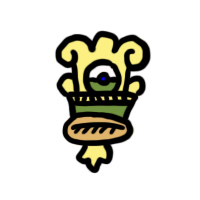
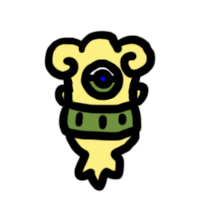
Adjust frequencies and trader sprites.

Changed region(s): [[0.21, 0.15, 0.78, 0.96]]

diff --git a/trader.js b/trader.js
@@ -1,7 +1,7 @@
 let Trader = function (x, y) {
     this.instantiate(x, y)
     this.name = nameMumbler.mumble()
-    this.icon = game.icons.trader
+    this.icon = wheels.pick([true, true, true, false]) ? game.icons.trader : game.icons.warlock
     this.head = {}
     this.inventory = []
     this.inventory.length = 8
@@ -10,13 +10,14 @@ let Trader = function (x, y) {
     this.inventory[1] = new (wheels.pick([Fruit, Fruit, Fruit, Cactusseed, Skull, Gem])) ()
     this.info = `A trader named ${this.name}.`
     this.interval = setInterval(this.act.bind(this), 500)
-    this.money = Math.floor(Math.random() * 150) + 150
+    this.money = Math.floor(Math.random() * 350) + 150
     this.verbs = ['trade']
     this.values = {
         'fruit': .35 + Math.random() * .35 + Math.random() * .35 + Math.random() * .35,
         'gem': Math.random() * 2.5 + .5,
         'skull': Math.random() * 2,
         'poison root': 1.6,
+        'flower': Math.random() * 3.2,
     }
 }
 wheels.inherits(Trader, Person)

diff --git a/game.js b/game.js
@@ -75,14 +75,14 @@ let instantiateWorld = () => {
     game.worldbuilder.scatter(
         Trader,
         300, // radius
-        1300, // rareness
+        900, // rareness
         Math.floor(Math.random() * 120) - 60, // x
         Math.floor(Math.random() * 120) - 60, // y
     )
     game.worldbuilder.scatter(
         Gardener,
         300, // radius
-        1600, // rareness
+        1200, // rareness
         Math.floor(Math.random() * 120) - 60, // x
         Math.floor(Math.random() * 120) - 60, // y
     )
@@ -150,7 +150,7 @@ let CactusMerchant = function (x, y) {
     this.inventory.length = 8
     this.inventory.fill(null)
     this.money = Math.floor(Math.random() * 7) + 2
-    this.speed = 8
+    this.speed = 6
 }
 wheels.inherits(CactusMerchant, Person)
 

diff --git a/gardener.js b/gardener.js
@@ -11,7 +11,7 @@ let Gardener = function (x, y) {
     this.inventory[2] = new (wheels.pick([Cactusseed, Poisonroot, Flowerseed])) ()
     this.inventory[2] = new (wheels.pick([Flowerseed, Flower])) ()
     this.info = `A gardener named ${this.name}.`
-    this.money = Math.floor(Math.random() * 70) + 20
+    this.money = Math.floor(Math.random() * 120) + 70
     this.verbs = ['trade']
     this.interval = setInterval(this.act.bind(this), 500)
     this.values = {

diff --git a/miner.js b/miner.js
@@ -7,7 +7,7 @@ let Miner = function (x, y) {
     this.inventory.length = 8
     this.inventory.fill(null)
     this.info = `A miner named ${this.name}. Miners make their living breaking up desert rocks hoping to find treasures inside.`
-    this.money = Math.floor(Math.random() * 7) + 2
+    this.money = Math.floor(Math.random() * 200) + 20
     this.interval = setInterval(this.act.bind(this), 500)
     this.verbs = ['trade']
     this.values = {
